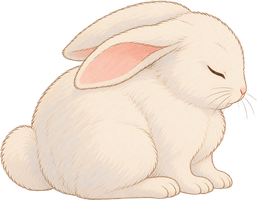
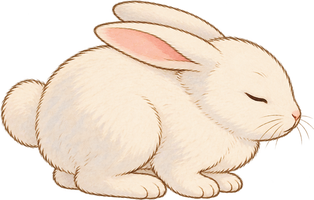
Bunny holds up a heart before dozing off; matching sleep art; half speed

diff --git a/index.html b/index.html
@@ -92,9 +92,15 @@ main{background:var(--panel);border-radius:24px 24px 0 0;margin-right:12px;displ
 .now::before{content:"";position:absolute;left:-6px;top:-5px;width:12px;height:12px;border-radius:50%;background:#ea4335}
 #bunny{position:fixed;left:0;top:0;width:54px;height:56px;pointer-events:none;z-index:50;will-change:transform;filter:drop-shadow(0 4px 3px #0006)}
 #bunny .run{position:absolute;inset:0;background:url(img/hop.png) 0 0/215px 56px no-repeat}
-#bunny .sleep{position:absolute;left:3px;bottom:0;width:48px;height:38px;transform-origin:50% 100%;display:none}
-#bunny.zz .run{display:none}
-#bunny.zz .sleep{display:block}
+#bunny .sleep{position:absolute;left:4px;bottom:2px;width:46px;height:29px;transform-origin:50% 100%;display:none}
+#bunny .love{position:absolute;left:10px;bottom:1px;width:37px;height:50px;transform-origin:50% 100%;display:none}
+#bunny.zz .run,#bunny.luv .run{display:none}
+#bunny.zz .sleep,#bunny.luv .love{display:block}
+#bunny .heart{position:absolute;left:24px;top:-4px;color:#e8505b;font-size:11px;opacity:0;pointer-events:none}
+#bunny.luv .heart{animation:float 1.6s ease-out infinite}
+#bunny.luv .heart:nth-of-type(2){animation-delay:.55s;left:32px}
+#bunny.luv .heart:nth-of-type(3){animation-delay:1.1s;left:18px}
+@keyframes float{0%{opacity:0;transform:translateY(8px) scale(.6)}25%{opacity:1}100%{opacity:0;transform:translateY(-22px) scale(1.1)}}
 @media (prefers-reduced-motion:reduce){#bunny{display:none}}
 @media (max-width:760px){
   .app{grid-template-columns:1fr}
@@ -134,7 +140,7 @@ main{background:var(--panel);border-radius:24px 24px 0 0;margin-right:12px;displ
   </main>
 </div>
 
-<div id="bunny" aria-hidden="true"><div class="run"></div><img class="sleep" src="img/sleep.png" alt=""></div>
+<div id="bunny" aria-hidden="true"><div class="run"></div><img class="sleep" src="img/sleep.png" alt=""><img class="love" src="img/love.png" alt=""><span class="heart">♥</span><span class="heart">♥</span><span class="heart">♥</span></div>
 
 <div class="modal-bg" id="modalBg">
   <div class="modal" id="modal"></div>
@@ -586,7 +592,8 @@ render();
 // ---------- bunny that hops after the mouse ----------
 (() => {
   const el = document.getElementById('bunny'), run = el.querySelector('.run'), sleep = el.querySelector('.sleep');
-  const W = 54, H = 56, PAD = 3, FRAMES = 4, SLEEP_AFTER = 1500;
+  const W = 54, H = 56, PAD = 3, FRAMES = 4, LOVE_AFTER = 1500, SLEEP_AFTER = 5500;
+  const love = el.querySelector('.love');
   let mx = innerWidth / 2, my = innerHeight / 2, x = mx, y = my, dir = 1, phase = 0, stillSince = performance.now();
   addEventListener('mousemove', e => { mx = e.clientX; my = e.clientY; });
   // events are obstacles: refresh their boxes a few times a second
@@ -611,19 +618,24 @@ render();
     const dx = tx - x, dy = ty - y, dist = Math.hypot(dx, dy);
     const ox = x, oy = y;
     if (dist > 4){
-      const step = Math.min(dist, 0.2 + dist * 0.0035);   // leisurely; a bit faster when far behind
+      const step = Math.min(dist, 0.1 + dist * 0.00175);   // leisurely; a bit faster when far behind
       x += dx / dist * step; y += dy / dist * step;
       if (Math.abs(mx - x) > 40) dir = mx > x ? 1 : -1;
     }
     avoid();
     // "moving" = it actually got somewhere, so a bunny stuck against an event can still nod off
     const moving = Math.hypot(x - ox, y - oy) > 0.15;
-    if (moving){ stillSince = now; phase += 0.09; }
-    else if (phase % (2 * Math.PI) > 0.2) phase += 0.09;   // finish the hop in progress, then land
-    const asleep = now - stillSince > SLEEP_AFTER;
+    if (moving){ stillSince = now; phase += 0.06; }
+    else if (phase % (2 * Math.PI) > 0.2) phase += 0.06;   // finish the hop in progress, then land
+    // when it stops: first holds up a heart ("I love you"), then dozes off
+    const idle = now - stillSince, asleep = idle > SLEEP_AFTER, loving = idle > LOVE_AFTER && !asleep;
     el.classList.toggle('zz', asleep);
+    el.classList.toggle('luv', loving);
     let lift = 0, tilt = 0;
-    if (asleep){
+    if (loving){
+      // shy little sway
+      love.style.transform = `rotate(${Math.sin(now / 300) * 4}deg)`;
+    } else if (asleep){
       // slow breathing and a little nod
       const t = now / 1000;
       sleep.style.transform = `scale(${1 + Math.sin(t * 2) * 0.015}, ${1 + Math.sin(t * 2) * 0.03}) rotate(${Math.sin(t * 0.7) * 2}deg)`;

diff --git a/README.md b/README.md
@@ -46,4 +46,4 @@ python -m http.server 8765
 
 - 본문: [Pretendard](https://github.com/orioncactus/pretendard) 1.3.9, SIL OFL 1.1. jsDelivr CDN 으로 불러온다.
 - 제목: [Gaegu](https://fonts.google.com/specimen/Gaegu), SIL OFL 1.1. Google Fonts 로 불러온다.
-- `img/hop.png`, `img/sleep.png`: ChatGPT 이미지 생성으로 그린 토끼다. 뛰는 그림 4장과 조는 그림 1장이고, 높이 224px 로 줄였다. 토끼는 마우스를 따라오고, 일정 칸은 피해서 다니고, 1.5초 멈추면 존다.
+- `img/hop.png`, `img/love.png`, `img/sleep.png`: ChatGPT 이미지 생성으로 그린 토끼다. 뛰는 그림 4장, 하트를 든 그림 1장, 조는 그림 1장이다. 토끼는 마우스를 따라오고 일정 칸은 피해서 다닌다. 멈추고 1.5초 뒤에는 하트를 들고, 5.5초 뒤에는 존다.
